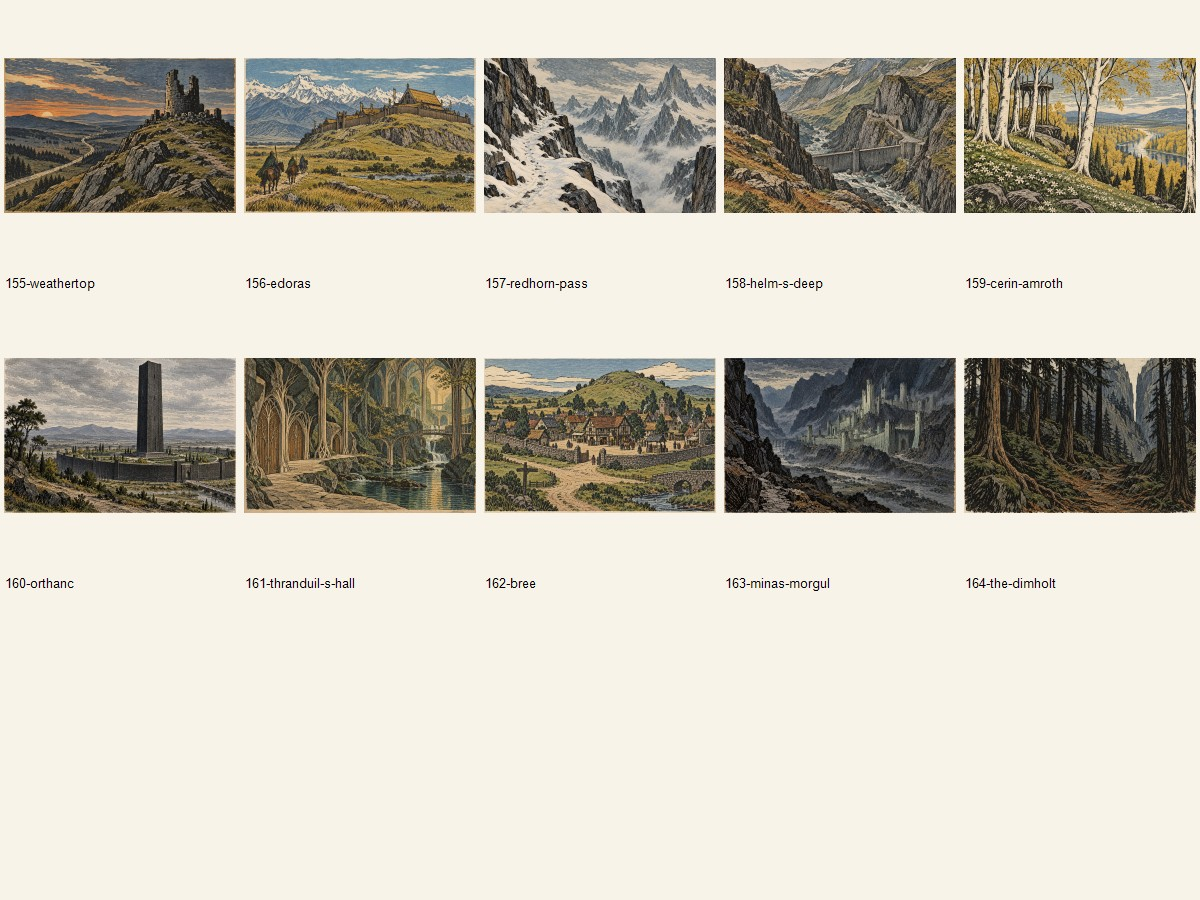
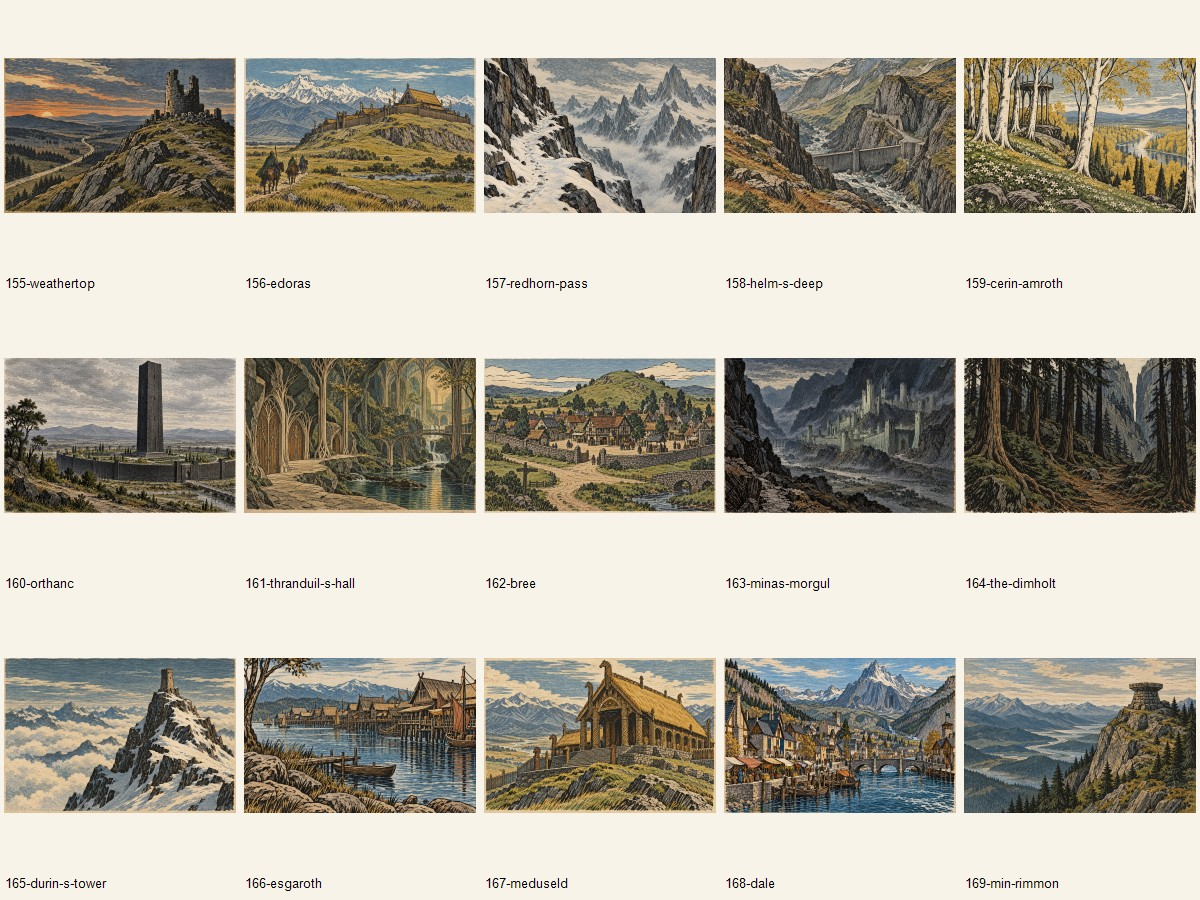
Add shared locations and Two Towers character art

diff --git a/scripts/lotr-two-books-art/PROGRESS.md b/scripts/lotr-two-books-art/PROGRESS.md
@@ -11,14 +11,14 @@ Work on both books together. Reuse art for the same subject across books, but ne
 ## Inventory and progress
 
 - `manifest.json` lists 217 distinct original illustrations for 389 cover, character, item and location slots: 173 Fellowship and 216 Two Towers. Exactly 172 illustrations are shared across books. Book-specific extras are one Fellowship cover and 44 Two Towers subjects.
-- 165 final images are accepted, registered, and converted to JPEG: assets 001-164 and 174. The PNG masters are ignored by Git. 52 assets remain pending.
+- 184 final images are accepted, registered, and converted to JPEG: assets 001-184. The PNG masters are ignored by Git. 33 assets remain pending.
 - `make-contact-sheets.ps1` produces category sheets for visual review; the first cover and character sheets were generated and inspected.
 - The accepted Fellowship cover depicts Tom Bombadil guiding the four hobbits from the Old Forest, a book scene omitted by the films. The accepted Two Towers cover depicts Faramir speaking to Frodo and Sam in Henneth Annûn. Accepted shared art includes a distinctly non-film Aragorn, Arwen, a shadow-and-flame Balrog without film horns or wings, and Barliman Butterbur.
 - An earlier Fellowship cover with a nine-person lineup, an earlier Aragorn that resembled the film actor, a multi-pose Boromir, a blond film-like Legolas, an eye-shaped Sauron, and initial Erestor, Glóin, and Saruman variants with film-like Council or character imagery were rejected and are not part of the registered assets.
 - The `.pwk` files contain 69 and 104 linked image blobs. The companion `.pwb` bundles contain 80 and 66 embedded blobs, including 14 map blobs in each. Many apparent missing references resolve through `.pwb`. The artwork task will replace all linked and embedded non-map art; preserve the functional map bundles. Two map layers in each book reuse a map image for navigation overlays; the no-repeat rule is enforced on cover, character, item and location illustrations.
 - A trial set of schematic SVG maps was discarded after discovering the embedded maps. No map replacements are pending.
 - `import-art.mjs` is prepared but intentionally refuses to run until all 217 approved JPEGs exist. It will import unique image refs per book, keep the map-only PWB, archive old blob metadata, update the catalogue, and correct Fellowship's `Endoras` typo to `Edoras`.
-- `validate.mjs` checks the checkpoint now and will check final art URL/hash uniqueness, map resolution, source removal, and catalogue sizes after import. Current checkpoint validation passes at 165/217.
+- `validate.mjs` checks the checkpoint now and will check final art URL/hash uniqueness, map resolution, source removal, and catalogue sizes after import. Current checkpoint validation passes at 184/217.
 
 ## Next actions
 
